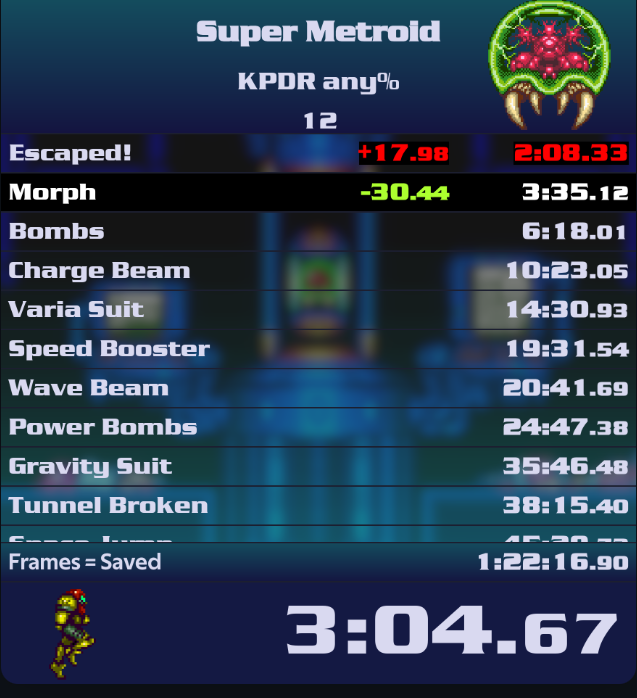
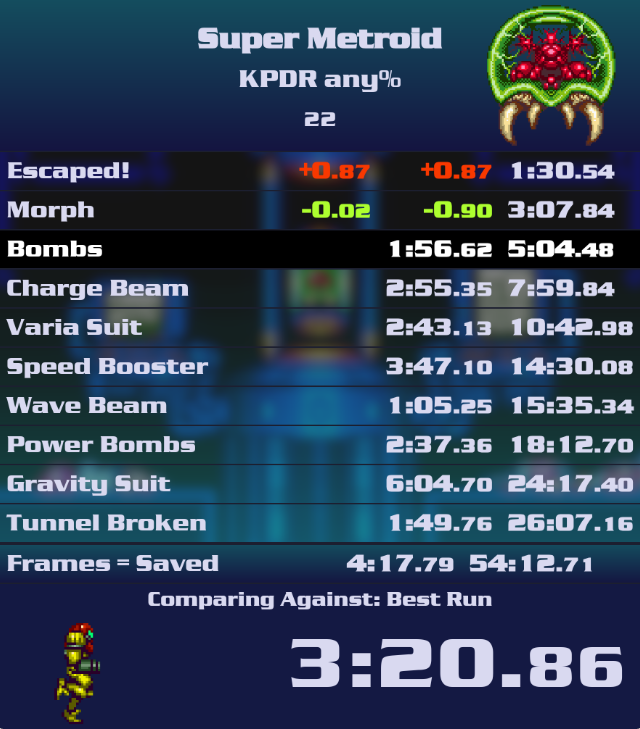
Updated my skins! (#1)
Updated all my skins to 1.25, for the refactoring of how OpenSplit parses the CSS.

diff --git a/SuperMetroid/splitter.css b/SuperMetroid/splitter.css
@@ -1,17 +1,12 @@
 @layer skins {
     #gameInfo {
         position: relative;
-
         background-image: url("./images/metroid.gif"), var(--color-primary);
-
+        background-size:
+        20% auto,
+        100% 100%;
+        background-position: 95%, center;
         background-repeat: no-repeat;
-
-        background-size: contain, cover;
-
-        background-position:
-            right center,
-            center;
-
         text-align: var(--gameinfo-text-align);
         font-family: var(--split-comparison-font-family), sans-serif;
     }
@@ -25,7 +20,6 @@
     #gameCategory {
         margin: var(--gameinfo-category-margin);
         padding-bottom: var(--gameinfo-category-bottom-space);
-
         font-family: var(--split-comparison-font-family), sans-serif;
         font-size: var(--gameinfo-category-font-size);
         font-weight: var(--gameinfo-category-font-weight);
@@ -36,12 +30,12 @@
         background-repeat: no-repeat;
         background-position: center bottom;
         background-size: 200%;
-
         font-family: var(--split-comparison-font-family), sans-serif;
     }
 
     #finalSegment {
         background: var(--color-primary);
+        font-family: var(--split-comparison-font-family), sans-serif;
     }
 
     #splitList table tr.selected {
@@ -51,14 +45,29 @@
 
     #splitList table td {
         border: var(--segment-border);
+        border-left: 0;
+        border-right: 0;
         padding: var(--segment-padding);
     }
 
+    #attempts {
+        position: static;
+    }
+
     .splitDelta {
+        text-align: var(--split-delta-text-align);
         font-family: var(--split-delta-font-family), monospace;
     }
 
     .splitComparison {
+        text-align: var(--split-comparison-text-align);
         font-family: var(--split-comparison-font-family), monospace;
     }
+
+    .comparison-mode {
+        background-color: #141943;
+        font-family: var(--split-comparison-font-family), monospace;
+        opacity: 1;
+    }
+
 }

diff --git a/HollowKnight/splitter.css b/HollowKnight/splitter.css
@@ -1,9 +1,8 @@
 @layer skins {
+
     #gameInfo {
         position: relative;
-
         background: var(--color-primary);
-
         text-align: var(--gameinfo-text-align);
         font-family: var(--split-delta-font-family), monospace;
     }
@@ -17,10 +16,8 @@
     #gameCategory {
         position: relative;
         top: -4px;
-
         margin: var(--gameinfo-category-margin);
         padding-bottom: var(--gameinfo-category-bottom-space);
-
         font-family: var(--split-delta-font-family), monospace;
         font-size: var(--gameinfo-category-font-size);
         font-weight: var(--gameinfo-category-font-weight);
@@ -31,7 +28,6 @@
         background-repeat: no-repeat;
         background-position: 25% 25%;
         background-size: cover;
-
         font-family: var(--split-delta-font-family), monospace;
     }
 
@@ -48,9 +44,9 @@
     #splitList table td {
         padding: var(--segment-padding);
         border: var(--segment-border);
-
+        border-left: 0;
+        border-right: 0;
         color: var(--inactive-segment-text-color);
-
         text-shadow:
             1px 1px 0 #1a163e,
             1px 1px 1px #1a163e,
@@ -58,22 +54,21 @@
     }
 
     #attempts {
-        top: -21px;
-        right: auto;
-        left: 50px;
+        position: relative;
+        top: -1.6em; /* move up next to the category */
+        margin-left: 10.5em;
+        display: inline-block;
+        text-align: center;
     }
 
     .comparison-mode {
-        position: absolute;
-        top: 66px;
-        left: 4px;
-
-        background: var(--color-primary);
-
+        background-color: var(--color-primary);
         font-family: var(--split-comparison-font-family), monospace;
         font-size: 12px;
-
         opacity: 1;
+        position: absolute;
+        top: 5.7em;
+        margin-left: 0.3em;
     }
 
     .splitDelta {

diff --git a/HomeImprovement/splitter.css b/HomeImprovement/splitter.css
@@ -1,20 +1,15 @@
 @layer skins {
     #gameInfo {
         position: relative;
-
         background-image:
             url("./images/thimbo.png"), url("./images/timwave.png"),
             var(--color-primary);
-
+        background-size:
+            contain,
+            contain,
+            100% 100%;
+        background-position: left, 95%, center;
         background-repeat: no-repeat;
-
-        background-size: contain, contain, cover;
-
-        background-position:
-            left center,
-            right center,
-            center;
-
         text-align: var(--gameinfo-text-align);
     }
 
@@ -50,25 +45,34 @@
     #splitList table td {
         border: var(--segment-border);
         padding: var(--segment-padding);
+        border-left: 0;
+        border-right: 0;
     }
 
     #attempts {
         position: static;
         right: auto;
-
         font-size: 14px;
         font-weight: var(--gameinfo-category-font-weight);
     }
 
     .comparison-mode {
-        display: none;
+        display: relative;
     }
 
     .splitDelta {
+        text-align: var(--split-delta-text-align);
         font-family: var(--split-delta-font-family), monospace;
     }
 
     .splitComparison {
+        text-align: var(--split-comparison-text-align);
         font-family: var(--split-comparison-font-family), monospace;
     }
+
+    button.collapseToggle {
+        margin-right: 6px;
+        background-color: #282828;
+    }
+
 }

diff --git a/LinktothePast/splitter.css b/LinktothePast/splitter.css
@@ -5,12 +5,9 @@
 
     #gameInfo {
         position: relative;
-
         background: var(--color-primary);
-
         border-top-left-radius: 10px;
         border-top-right-radius: 10px;
-
         text-align: var(--gameinfo-text-align);
         font-family: var(--split-comparison-font-family), sans-serif;
     }
@@ -24,7 +21,6 @@
     #gameCategory {
         margin: var(--gameinfo-category-margin);
         padding-bottom: var(--gameinfo-category-bottom-space);
-
         font-size: var(--gameinfo-category-font-size);
         font-weight: var(--gameinfo-category-font-weight);
     }
@@ -41,19 +37,23 @@
     #splitList table td {
         border: var(--segment-border);
         padding: var(--segment-padding);
+        border-left: 0;
+        border-right: 0;
     }
 
     #attempts {
-        top: 50px;
-        right: auto;
-        left: 320px;
+        font-size: var(--gameinfo-category-font-size);
+        font-weight: var(--gameinfo-category-font-weight);
+        position: relative;
+        padding: 2px 0px;
+        left: -0.3em;
+        top: -1.2em; /* move up next to the category */
+        text-align: right;
     }
 
     .comparison-mode {
         background: #050b07;
-
         font-family: var(--split-comparison-font-family), monospace;
-
         opacity: 1;
     }
 

diff --git a/SuperMetroid/timer.css b/SuperMetroid/timer.css
@@ -1,7 +1,6 @@
 @layer skins {
     #timer-container {
         padding: 10px;
-
         background-color: #141943;
         background-image: url("./images/samusrunning.gif");
         background-repeat: no-repeat;
@@ -10,7 +9,7 @@
     }
 
     #time-container {
-        font-family: "Serpentine", sans-serif;
+        font-family: var(--split-comparison-font-family), sans-serif;
         font-size: 50px;
     }
 
@@ -19,7 +18,7 @@
     }
 
     .timer-behind {
-        color: #f00;
+        color: #f83800;
     }
 
     .timer-gold {

diff --git a/SuperMetroid/overrides.css b/SuperMetroid/overrides.css
@@ -2,11 +2,10 @@
     :root {
     }
 
-    /* When the timer is showing a gold split, use the faster Samus animation. */
+    /* When the timer is showing a gold split, play samusrunningfast.gif in the title area */
     body:has(.timer-gold) #timer-container {
         background-image: url("./images/samusrunningfast.gif");
-        background-size: contain;
-        background-position: left center;
-        background-repeat: no-repeat;
+        background-size: contain, contain;
+        background-position: left, left;
     }
 }

diff --git a/HomeImprovement/index.css b/HomeImprovement/index.css
@@ -2,3 +2,5 @@
 @import "./splitter.css";
 @import "./timer.css";
 @import "./overrides.css";
+@import "./complete.css";
+@import "./pb.css";

diff --git a/SuperMetroid/index.css b/SuperMetroid/index.css
@@ -2,3 +2,5 @@
 @import "./splitter.css";
 @import "./timer.css";
 @import "./overrides.css";
+@import "./complete.css";
+@import "./pb.css";

diff --git a/SuperMetroid/complete.css b/SuperMetroid/complete.css
@@ -1,0 +1,5 @@
+@layer skins {
+    #gameInfo.complete,
+    #finalSegment.complete {
+    }
+}

diff --git a/SuperMetroid/pb.css b/SuperMetroid/pb.css
@@ -1,0 +1,4 @@
+#gameInfo.pb,
+#finalSegment.pb {
+}
+

diff --git a/HomeImprovement/README.md b/HomeImprovement/README.md
@@ -1,10 +1,14 @@
 # Home Improvement: Power Tool Pursuit
 
 Author: SensaiOpti <br>
-Version: 1.2 <br>
+Version: 1.25 <br>
 Release date: 2026-06-23 <br>
-Last updated: 2026-07-06 <br>
+Last updated: 2026-07-17 <br>
 
 The images contained within are stupid jokes and memes made by Twitch viewers. Tim Allen should take no offense, nor should Thrumbos or sensei Jinx.
 
 ![HomeImprovementExample.png](HomeImprovementExample.png)
+
+## Changelog
+### 1.25
+Updated for recent changes in OpenSplit CSS interpretation.

diff --git a/SuperMetroid/README.md b/SuperMetroid/README.md
@@ -1,11 +1,14 @@
 # Super Metroid
 
 Author: SensaiOpti <br>
-Version: 1.1 <br>
+Version: 1.25 <br>
 Release date: 2026-06-23 <br>
-Last updated: 2026-06-27 <br>
+Last updated: 2026-07-17 <br>
 
 The font used is [Serpentine](https://www.fontshut.com/serpentine-font-family/), though I'm certain any font will do.
 
+![SuperMetroidExample.png](SuperMetroidExample.png)
 
-![HollowKnightExample.png](HollowKnightExample.png)
+## Changelog
+### 1.25
+Updated for recent changes in OpenSplit CSS interpretation.
